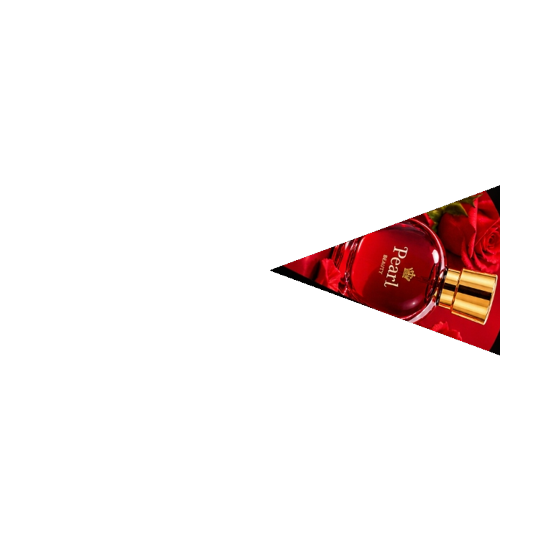
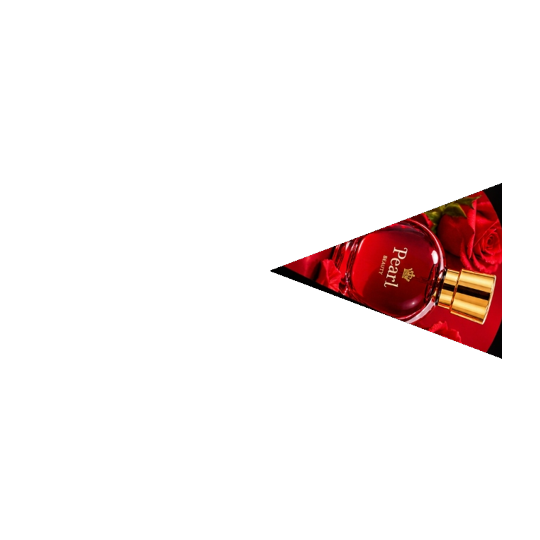
Rebuild solid wedge assets with zero black gaps and enforce upright image/text orientation

Changed region(s): [[0.563, 0.3259, 0.9481, 0.6815]]

diff --git a/frontend/src/components/SpinWheelCanvas.jsx b/frontend/src/components/SpinWheelCanvas.jsx
@@ -198,12 +198,14 @@ const SpinWheelCanvas = ({ prizes, winningIndex, isSpinning, onSpinComplete }) =
       ctx.stroke();
       ctx.restore();
 
-      // 3. Draw Pastel Segments with Perfect Wedge Clipping & Non-overlapping Text Badges
+      // 3. Draw Pastel Segments with Perfect Wedge Clipping & Upright Image / Text Badges
       activePrizes.forEach((prize, i) => {
         if (!prize) return;
         const startAngle = angleOffset + i * arcSize;
         const endAngle = startAngle + arcSize;
         const textAngle = startAngle + arcSize / 2;
+        const normAngle = ((textAngle % (2 * Math.PI)) + 2 * Math.PI) % (2 * Math.PI);
+        const isLeftHalf = normAngle > Math.PI / 2 && normAngle < (3 * Math.PI) / 2;
 
         // Clip to exact triangle slice wedge path
         ctx.save();
@@ -212,7 +214,7 @@ const SpinWheelCanvas = ({ prizes, winningIndex, isSpinning, onSpinComplete }) =
         ctx.arc(centerX, centerY, outerRadius, startAngle, endAngle);
         ctx.closePath();
 
-        // Fill Pastel Segment Background
+        // Fill Pastel Segment Background to ensure ZERO black empty space
         const segmentColor = prize.color_code || defaultPastelColors[i % defaultPastelColors.length];
         ctx.fillStyle = segmentColor;
         ctx.fill();
@@ -222,10 +224,10 @@ const SpinWheelCanvas = ({ prizes, winningIndex, isSpinning, onSpinComplete }) =
         ctx.lineWidth = 3;
         ctx.stroke();
 
-        // Clip context to exact triangle wedge so image fills slice without white square borders
+        // Clip context to exact triangle wedge so image fills slice completely
         ctx.clip();
 
-        // Draw Prize Slice Wedge Image
+        // Draw Prize Slice Wedge Image (Upright orientation for all 8 slices)
         const pKey = prize.id || prize.name;
         const prizeImg = loadedImages[pKey];
         
@@ -233,6 +235,8 @@ const SpinWheelCanvas = ({ prizes, winningIndex, isSpinning, onSpinComplete }) =
           try {
             ctx.save();
             ctx.translate(centerX, centerY);
+            
+            // Draw image rotated cleanly along textAngle
             ctx.rotate(textAngle);
 
             const imgSize = outerRadius * 2;
@@ -245,7 +249,7 @@ const SpinWheelCanvas = ({ prizes, winningIndex, isSpinning, onSpinComplete }) =
 
         ctx.restore(); // Restore wedge clip context
 
-        // Draw Prize Label Text Badge (Horizontal Tag above base of triangle slice)
+        // Draw Prize Label Text Badge (Horizontal Tag above base of triangle slice, 100% UPRIGHT)
         try {
           ctx.save();
           ctx.translate(centerX, centerY);
@@ -253,10 +257,9 @@ const SpinWheelCanvas = ({ prizes, winningIndex, isSpinning, onSpinComplete }) =
           const textRadius = outerRadius - 32;
           ctx.translate(textRadius * Math.cos(textAngle), textRadius * Math.sin(textAngle));
 
-          // Align horizontally parallel to base arc of triangle wedge
+          // Align horizontally parallel to base arc of triangle wedge & ensure UPRIGHT text
           let tagAngle = textAngle + Math.PI / 2;
-          const normAngle = ((textAngle % (2 * Math.PI)) + 2 * Math.PI) % (2 * Math.PI);
-          if (normAngle > Math.PI / 2 && normAngle < (3 * Math.PI) / 2) {
+          if (isLeftHalf) {
             tagAngle += Math.PI;
           }
           ctx.rotate(tagAngle);
